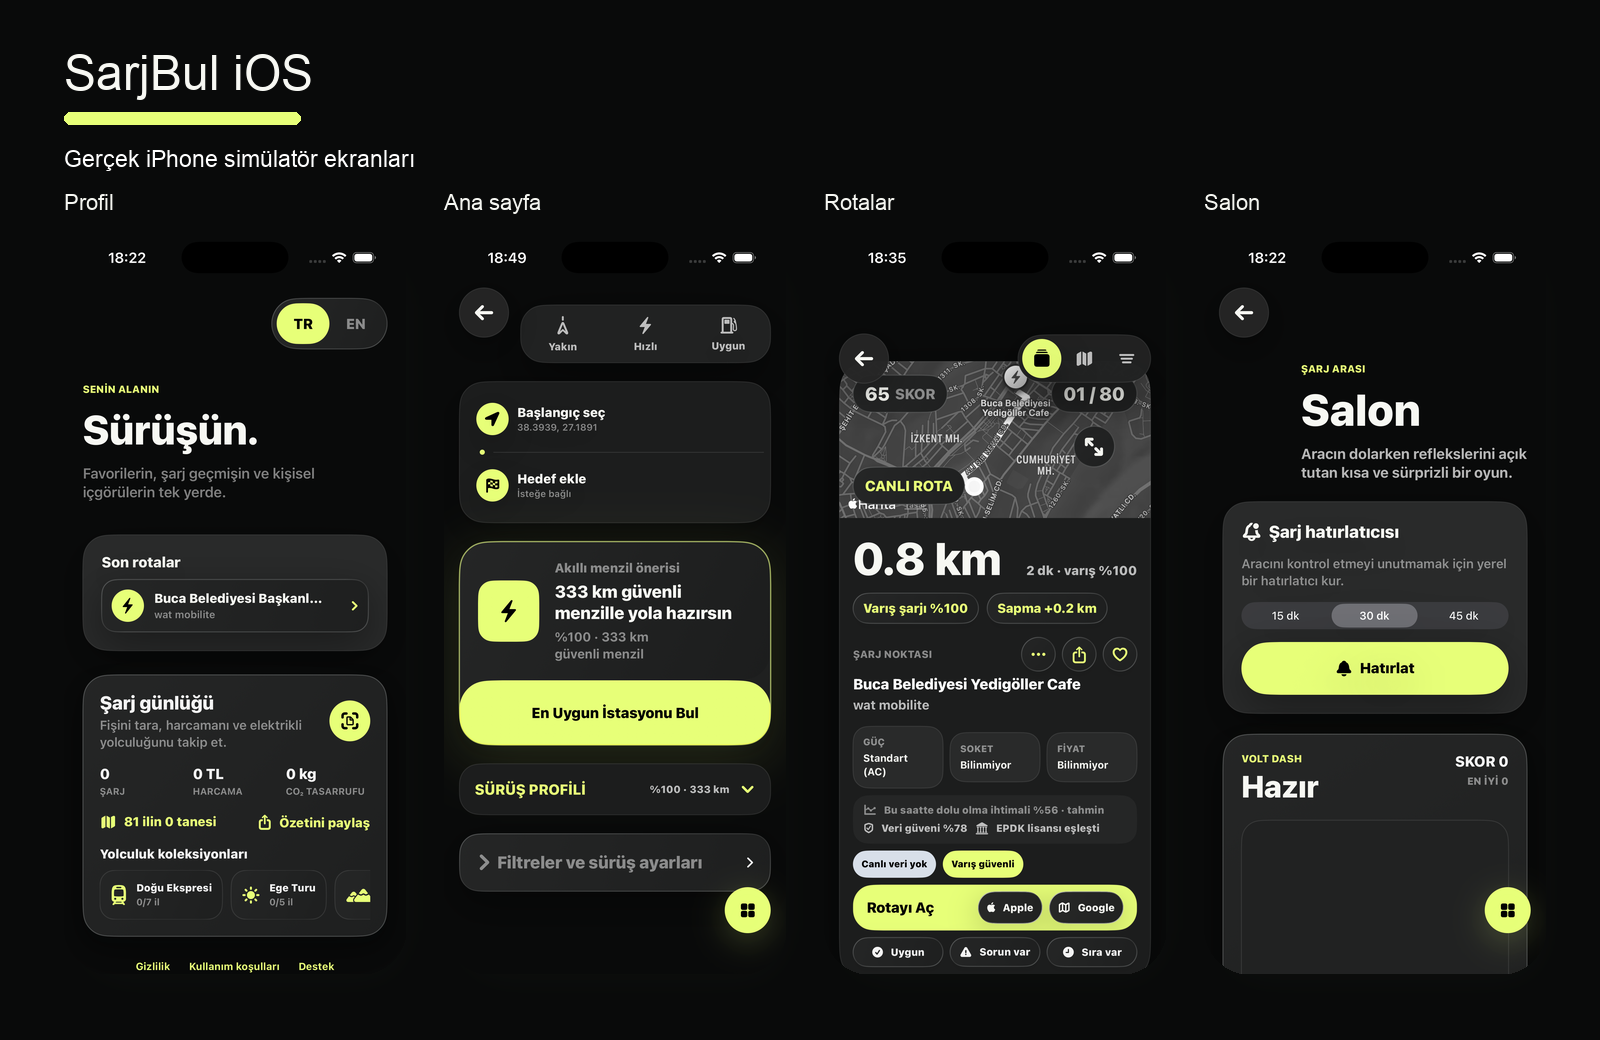
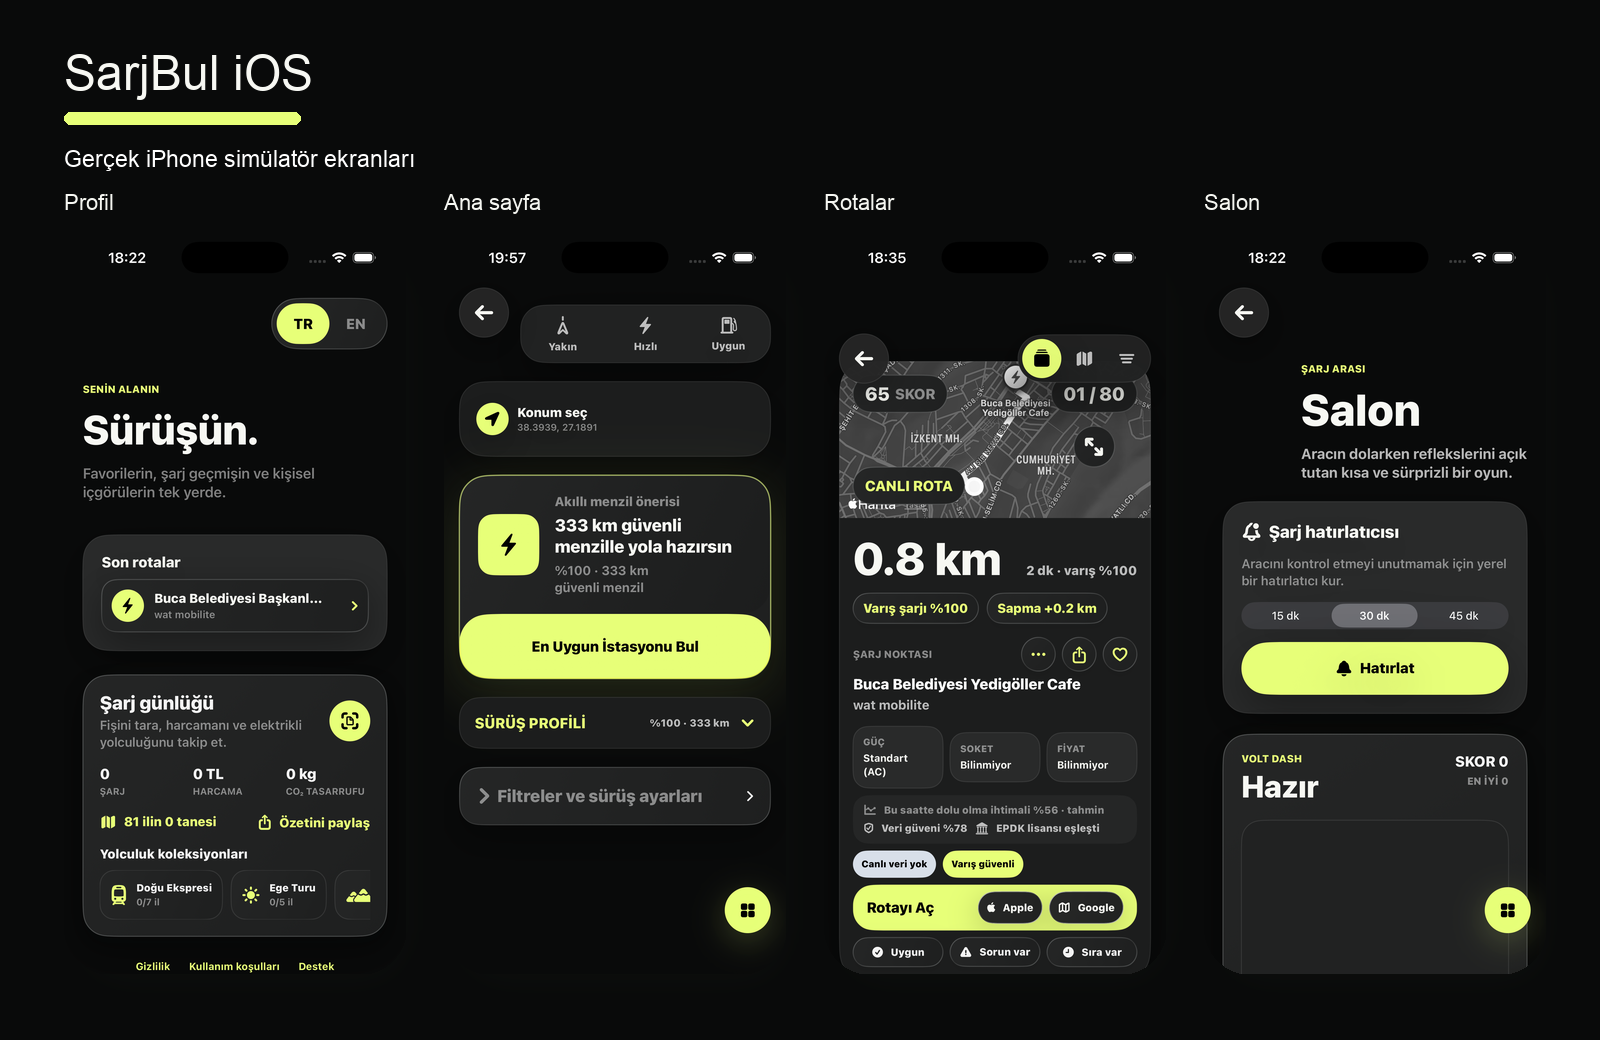
Simplify home location flow

Changed region(s): [[0.2812, 0.4308, 0.5, 0.8615], [0.3438, 0.3692, 0.375, 0.4]]

diff --git a/SarjBul/Features/Home/HomeView.swift b/SarjBul/Features/Home/HomeView.swift
@@ -25,7 +25,10 @@ struct HomeView: View {
                 ScrollView {
                     VStack(alignment: .leading, spacing: 22) {
                         topControls
-                        journeyInputs
+                        if search.userLocation?.source != .device {
+                            locationInput
+                                .transition(.opacity.combined(with: .move(edge: .top)))
+                        }
                         routeAction
                         drivingProfile
                         filtersAndSettings
@@ -44,6 +47,7 @@ struct HomeView: View {
                 .padding(.leading, 18)
                 .padding(.top, 6)
             }
+            .animation(.easeInOut(duration: 0.24), value: search.userLocation?.source)
             .accessibilityIdentifier("home-screen")
             .sbInlineNavigationTitle()
             .onReceive(locationManager.$lastLocation.compactMap { $0 }) { location in
@@ -52,6 +56,7 @@ struct HomeView: View {
             }
             .onAppear {
                 guard !isDeterministicUITest else { return }
+                settings.destination = nil
                 guard !didRequestDeviceLocation, search.userLocation == nil else { return }
                 requestDeviceLocation()
             }
@@ -109,19 +114,9 @@ struct HomeView: View {
         .buttonStyle(QuickActionStyle(active: settings.filters.preference == preference))
     }
 
-    private var journeyInputs: some View {
+    private var locationInput: some View {
         VStack(spacing: 0) {
             originJourneyButton
-            HStack(spacing: 10) {
-                Circle()
-                    .fill(SBColor.signal)
-                    .frame(width: 6, height: 6)
-                Rectangle()
-                    .fill(SBColor.line)
-                    .frame(height: 1)
-            }
-            .padding(.leading, 16)
-            destinationJourneyButton
         }
         .padding(8)
         .background(SBColor.surfaceSolid, in: RoundedRectangle(cornerRadius: SBRadius.xl, style: .continuous))
@@ -130,6 +125,7 @@ struct HomeView: View {
                 .stroke(SBColor.line, lineWidth: 1)
         )
         .sbSoftShadow()
+        .accessibilityIdentifier("location-input")
     }
 
     private var originJourneyButton: some View {
@@ -141,27 +137,6 @@ struct HomeView: View {
                 icon: "location.fill"
             ) {
                 placeSearchMode = .origin
-            }
-    }
-
-    private var destinationJourneyButton: some View {
-        journeyButton(
-                title: settings.destination?.name ?? settings.t("place.choose_destination"),
-                subtitle: settings.destination?.address.isEmpty == false
-                    ? settings.destination?.address ?? ""
-                    : settings.t("place.optional"),
-                icon: "flag.checkered"
-            ) {
-                placeSearchMode = .destination
-            }
-            .contextMenu {
-                if settings.destination != nil {
-                    Button(role: .destructive) {
-                        settings.destination = nil
-                    } label: {
-                        Label(settings.t("place.clear_destination"), systemImage: "xmark")
-                    }
-                }
             }
     }
 
@@ -498,6 +473,7 @@ struct HomeView: View {
         #if DEBUG
         ProcessInfo.processInfo.arguments.contains("--ui-testing-home")
             || ProcessInfo.processInfo.arguments.contains("--ui-testing-routes")
+            || ProcessInfo.processInfo.arguments.contains("--ui-testing-device-location")
         #else
         false
         #endif

diff --git a/SarjBul/App/Localization.swift b/SarjBul/App/Localization.swift
@@ -84,12 +84,12 @@ enum AppLocalization {
             "home.use_manual_location": "Manuel konumu kullan",
             "home.open_settings": "Konum izni için Ayarlar'ı aç",
             "place.my_location": "Konumum",
-            "place.choose_origin": "Başlangıç seç",
+            "place.choose_origin": "Konum seç",
             "place.choose_destination": "Hedef ekle",
             "place.not_selected": "Seçilmedi",
             "place.optional": "İsteğe bağlı",
             "place.clear_destination": "Hedefi kaldır",
-            "place.origin_title": "Başlangıç noktası",
+            "place.origin_title": "Konum seç",
             "place.destination_title": "Nereye gidiyorsun?",
             "place.origin_hint": "Adres, semt veya yer ara",
             "place.destination_hint": "Hedefini arayarak rota üzerindeki istasyonları bul",
@@ -323,12 +323,12 @@ enum AppLocalization {
             "home.use_manual_location": "Use manual location",
             "home.open_settings": "Open Settings for location access",
             "place.my_location": "My location",
-            "place.choose_origin": "Choose start",
+            "place.choose_origin": "Choose location",
             "place.choose_destination": "Add destination",
             "place.not_selected": "Not selected",
             "place.optional": "Optional",
             "place.clear_destination": "Remove destination",
-            "place.origin_title": "Starting point",
+            "place.origin_title": "Choose location",
             "place.destination_title": "Where are you going?",
             "place.origin_hint": "Search for an address, area, or place",
             "place.destination_hint": "Search your destination to find chargers along the route",

diff --git a/SarjBulUITests/AppSmokeUITests.swift b/SarjBulUITests/AppSmokeUITests.swift
@@ -14,6 +14,17 @@ final class AppSmokeUITests: XCTestCase {
         XCTAssertTrue(app.descendants(matching: .any)["home-screen"].waitForExistence(timeout: 12))
         XCTAssertFalse(app.buttons["auth-submit-button"].exists)
         XCTAssertFalse(app.buttons["guest-start-button"].exists)
+        XCTAssertTrue(app.staticTexts["Konum seç"].exists)
+        XCTAssertFalse(app.staticTexts["Hedef ekle"].exists)
+    }
+
+    func testManualLocationInputHidesWhenDeviceLocationIsAvailable() throws {
+        let app = XCUIApplication()
+        app.launchArguments = ["--ui-testing-device-location"]
+        app.launch()
+
+        XCTAssertTrue(app.descendants(matching: .any)["home-screen"].waitForExistence(timeout: 12))
+        XCTAssertFalse(app.descendants(matching: .any)["location-input"].exists)
     }
 
     func testStationStoryImageOpensShareSheet() throws {

diff --git a/SarjBul/App/AppState.swift b/SarjBul/App/AppState.swift
@@ -96,7 +96,10 @@ final class AppState {
     private func applyDebugLaunchMode() {
         #if DEBUG
         let arguments = ProcessInfo.processInfo.arguments
-        if arguments.contains("--ui-testing-home") || arguments.contains("--ui-testing-routes") {
+        if arguments.contains("--ui-testing-device-location") {
+            navigation.tab = .home
+            search.userLocation = UserLocation(latitude: 38.3939, longitude: 27.1891, source: .device)
+        } else if arguments.contains("--ui-testing-home") || arguments.contains("--ui-testing-routes") {
             navigation.tab = .home
             search.userLocation = UserLocation(latitude: 38.3939, longitude: 27.1891, source: .manual)
         } else if arguments.contains("--ui-testing-lounge") {

diff --git a/README.md b/README.md
@@ -16,8 +16,7 @@ Tasarım değiştiğinde bu görsel de aynı değişiklikle güncellenir. Renk, 
 
 ## Ürün Özellikleri
 
-- Cihaz konumu, adres/POI arama ve manuel koordinat akışı
-- İsteğe bağlı hedef ile rota koridorundaki istasyonları bulma
+- Açılışta cihaz konumu izni; izin yoksa adres/POI arama ve manuel koordinat akışı
 - Batarya kapasitesi, şarj yüzdesi, tüketim ve güvenlik payıyla varış şarjı hesabı
 - Yakın, hızlı, ekonomik ve dengeli sıralama; soket, güç ve menzil filtreleri
 - Gerçek `MKDirections` rotası, trafik katmanlı MapKit görünümü ve Apple/Google Maps aktarımı
